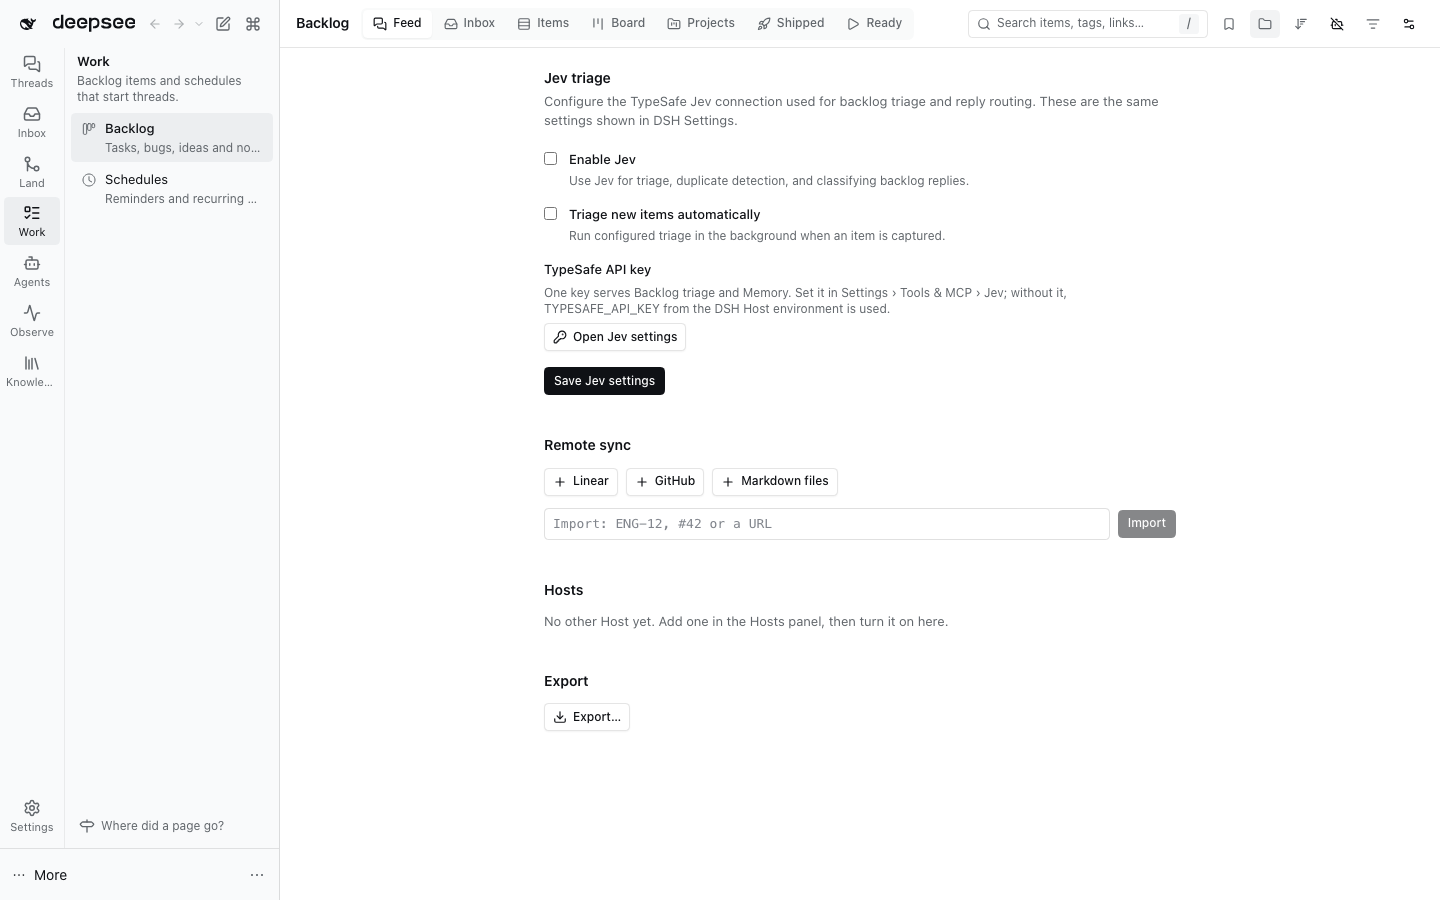
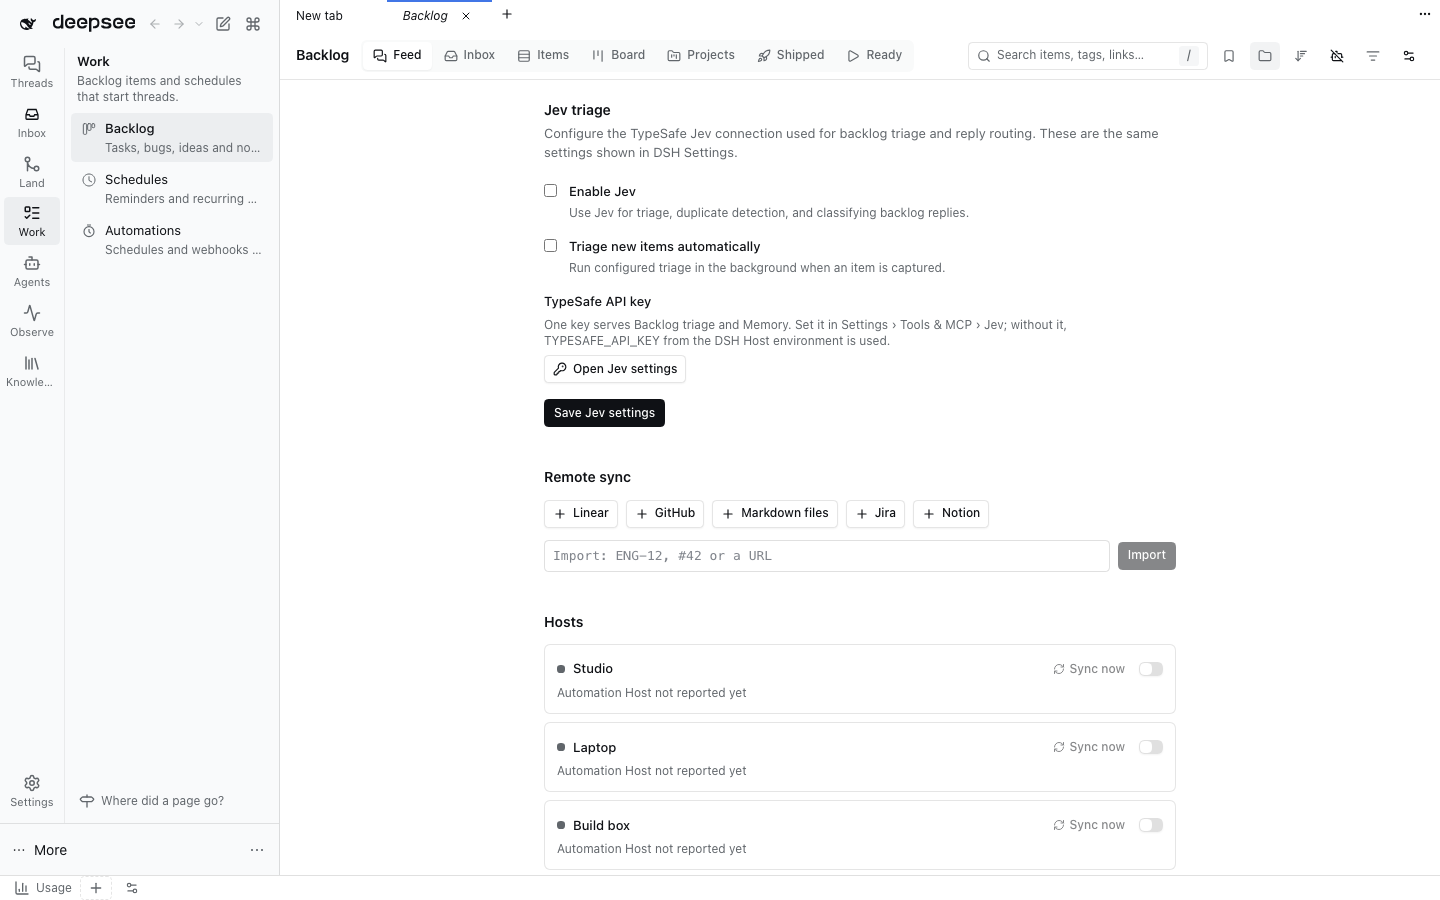
feat(backlog): show where each peer runs automation
A Hosts section that only shows this Host picks blind while other Hosts may run the same gate checks. Each peer row now names the automation Host it reported, and the section names every Host that disagrees, with the recovery of setting the same Host everywhere. Its feature seeds two peer runtimes so the captured screen shows peers.

diff --git a/plugins/@dshfiles/backlog/src/peer-settings.tsx b/plugins/@dshfiles/backlog/src/peer-settings.tsx
@@ -9,6 +9,7 @@ import { errorMessage, useMutation, useQuery, useQueryClient } from '@dshfiles/p
 
 import { backlogApi, type BacklogPeerStatusView } from './api.js'
 import { ItemGlyphs } from './item-glyphs.js'
+import { PeerAutomation, type PeerAutomationView } from './peer-automation.js'
 
 const PEER_STATUS_KEY = ['dshfiles-backlog', 'peer-status'] as const
 const THIS_HOST = ''
@@ -25,6 +26,18 @@ const pulledAgo = (at: number | null): string => {
 
 type PeerView = BacklogPeerStatusView['peers'][number]
 
+/** Where one peer runs automation, in this section's words: on itself, on this Host, or on a Host it names. */
+const automationSentence = (entry: { readonly peerName: string; readonly peerHostId: string | null; readonly automation: PeerAutomationView }): string =>
+  entry.automation.hostId === entry.peerHostId ? `${entry.peerName} runs automation itself` : `${entry.peerName} runs automation on ${entry.automation.label}`
+
+/** What the section says when Hosts picked different automation Hosts: two of them would run the same gate checks. */
+const automationDisagreement = (status: BacklogPeerStatusView): string | null => {
+  const disagreements = PeerAutomation.disagreements(status)
+  if (disagreements.length === 0) return null
+  const where = disagreements.map(automationSentence).join('; ')
+  return `Hosts disagree on where automation runs: ${where}. Pick the same Host here and in each Host's Backlog settings › Hosts, or gate checks and main polling run twice.`
+}
+
 /** What the section says instead of a Host list when there is nothing to list. */
 const emptyNote = (status: BacklogPeerStatusView): string | null => {
   if (!status.available)
@@ -33,7 +46,13 @@ const emptyNote = (status: BacklogPeerStatusView): string | null => {
   return null
 }
 
-const PeerRow = (props: { readonly peer: PeerView; readonly busy: boolean; readonly onToggle: (enabled: boolean) => void; readonly onSync: () => void }) => {
+const PeerRow = (props: {
+  readonly peer: PeerView
+  readonly automation: PeerAutomationView | null
+  readonly busy: boolean
+  readonly onToggle: (enabled: boolean) => void
+  readonly onSync: () => void
+}) => {
   const { peer } = props
   return (
     <li className="dshx:flex dshx:flex-col dshx:gap-1 dshx:rounded-lg dshx:border dshx:border-border dshx:p-3" aria-label={`Host ${peer.name}`}>
@@ -54,6 +73,9 @@ const PeerRow = (props: { readonly peer: PeerView; readonly busy: boolean; reado
           <Switch size="sm" checked={peer.enabled} aria-label={`Share the backlog with ${peer.name}`} onCheckedChange={props.onToggle} />
         </span>
       </div>
+      <p className="dshx:text-xs dshx:text-muted-foreground">
+        {props.automation === null ? 'Automation Host not reported yet' : `Automation on ${props.automation.label}`}
+      </p>
       {peer.error === null ? null : (
         <p role="alert" className="dshx:text-xs dshx:text-destructive">
           {peer.error.message}
@@ -72,6 +94,7 @@ export const BacklogHostsSettings = (): JSX.Element => {
   const sync = useMutation({ mutationFn: (runtimeId?: string) => api.peerSync(runtimeId === undefined ? {} : { runtimeId }), onSuccess: store })
   const configure = useMutation({ mutationFn: (input: Parameters<typeof api.configurePeers>[0]) => api.configurePeers(input), onSuccess: store })
   const data = status.data
+  const disagreement = data === undefined ? null : automationDisagreement(data)
   const enabledCount = data?.peers.filter(peer => peer.enabled).length ?? 0
   const automationOptions: ComboboxOption[] = [
     { value: THIS_HOST, label: 'This Host' },
@@ -108,6 +131,7 @@ export const BacklogHostsSettings = (): JSX.Element => {
               <PeerRow
                 key={peer.runtimeId}
                 peer={peer}
+                automation={PeerAutomation.of(data, peer)}
                 busy={sync.isPending && (sync.variables === undefined || sync.variables === peer.runtimeId)}
                 onToggle={enabled => configure.mutate({ peers: [{ runtimeId: peer.runtimeId, enabled }] })}
                 onSync={() => sync.mutate(peer.runtimeId)}
@@ -128,6 +152,11 @@ export const BacklogHostsSettings = (): JSX.Element => {
                 />
               </div>
               {data.automationNote === null ? null : <p className="dshx:text-xs dshx:text-muted-foreground">{data.automationNote}</p>}
+              {disagreement === null ? null : (
+                <p role="status" className="dshx:text-xs dshx:text-warning">
+                  {disagreement}
+                </p>
+              )}
             </div>
           ) : null}
         </div>

diff --git a/tooling/dshx/e2e/support/plugin-journeys/backlog-history.steps.ts b/tooling/dshx/e2e/support/plugin-journeys/backlog-history.steps.ts
@@ -1,9 +1,12 @@
 import { mkdtempSync, readFileSync } from 'node:fs'
+import { mkdir, writeFile } from 'node:fs/promises'
 import { tmpdir } from 'node:os'
 import { join } from 'node:path'
 import { expect, type Page } from '@playwright/test'
 import { Then, When } from '../bdd.js'
-import { finishJourneyAssertions, recordAssertion } from '../steps.js'
+import { openGlobalPanel } from '../plugin-view-names.js'
+import { finishJourneyAssertions, profileFor, recordAssertion } from '../steps.js'
+import { StartupDialogs } from '../../../packages/dshx/src/project/startup-dialogs.js'
 import { createScratchDirectory, sendMessage, startThreadWithModel } from '../threads.js'
 import { backlogRef } from './backlog-refs.js'
 
@@ -78,10 +81,55 @@ Then('the export file holds the item {string}', async ({ page }: { page: Page },
   await finishJourneyAssertions(page)
 })
 
-Then('the Hosts section says no other Host shares the backlog yet', async ({ page }: { page: Page }) => {
-  await recordAssertion(page, 'backlog-hosts-empty', async () => {
-    const hosts = page.getByRole('region', { name: 'Hosts', exact: true }).filter({ hasText: 'No other Host yet' })
-    await expect(hosts).toContainText('No other Host yet. Add one in the Hosts panel, then turn it on here.')
+/** Two multi-host runtimes this Host cannot reach, as a Hosts panel adds them: enough for the backlog to list them. */
+When('two multi-host Hosts are seeded', async ({ page }: { page: Page }) => {
+  const createdAt = '2026-11-11T00:00:00.000Z'
+  const launchUrl = 'http://127.0.0.1:1/?token=dshx-e2e-backlog-peer'
+  const host = (id: string, name: string, position: number) => ({
+    schemaVersion: 2,
+    id,
+    name,
+    connector: { kind: 'local' },
+    hidden: false,
+    position,
+    createdAt,
+  })
+  const runtime = (id: string, hostId: string, name: string, originPort: number) => ({
+    schemaVersion: 2,
+    id,
+    hostId,
+    name,
+    locator: { kind: 'local', launchUrl },
+    identity: null,
+    originPort,
+    createdAt,
+  })
+  const directory = {
+    schemaVersion: 2,
+    hosts: [host('studio', 'Studio', 0), host('build-box', 'Build box', 1)],
+    runtimes: [
+      runtime('10000000-0000-4000-8000-00000000bacc', 'studio', 'Studio', 43_011),
+      runtime('10000000-0000-4000-8000-00000000bacd', 'build-box', 'Build box', 43_012),
+    ],
+    retiredPorts: [],
+  }
+  const dataDirectory = join(profileFor(page).homeRoot, 'plugins', 'multi-host')
+  await mkdir(dataDirectory, { recursive: true, mode: 0o700 })
+  await writeFile(join(dataDirectory, 'directory.json'), `${JSON.stringify(directory, null, 2)}\n`, { mode: 0o600 })
+  await page.reload()
+  await StartupDialogs.registerProviderSetupDismissal(page)
+  await openGlobalPanel(page, 'Backlog')
+  await page.getByRole('button', { name: 'Backlog settings', exact: true }).click()
+})
+
+Then('the Hosts section lists both Hosts and where each runs automation', async ({ page }: { page: Page }) => {
+  await recordAssertion(page, 'backlog-hosts-peers', async () => {
+    const hosts = page.getByRole('region', { name: 'Hosts', exact: true })
+    const buildBox = hosts.getByRole('listitem', { name: 'Host Build box' })
+    await expect(buildBox).toBeVisible()
+    await expect(buildBox).toContainText('Automation Host not reported yet')
+    await expect(hosts.getByRole('listitem', { name: 'Host Studio' })).toBeVisible()
+    await expect(hosts).not.toContainText('No other Host yet')
   })
   await finishJourneyAssertions(page)
 })

diff --git a/plugins/@dshfiles/backlog/src/peer-automation.test.ts b/plugins/@dshfiles/backlog/src/peer-automation.test.ts
@@ -1,0 +1,66 @@
+import { describe, expect, it } from 'vitest'
+import type { BacklogPeerStatusView } from './api.js'
+import { PeerAutomation } from './peer-automation.js'
+
+const peer = (input: Partial<BacklogPeerStatusView['peers'][number]>): BacklogPeerStatusView['peers'][number] => ({
+  runtimeId: '10000000-0000-4000-8000-000000000002',
+  name: 'Build box',
+  connected: true,
+  enabled: true,
+  remoteHostId: 'build-box',
+  cursor: 0,
+  lag: 0,
+  pulled: 0,
+  lastPullAt: null,
+  lastSuccessAt: null,
+  automationHostId: null,
+  error: null,
+  ...input,
+})
+
+const status = (input: Partial<BacklogPeerStatusView>): BacklogPeerStatusView => ({
+  available: true,
+  hostId: 'studio',
+  intervalSeconds: 60,
+  automationHostId: null,
+  automationHere: true,
+  automationNote: null,
+  peers: [],
+  ...input,
+})
+
+describe('peer automation Host', () => {
+  it('names this Host, a known peer and an id it cannot place, and treats an empty choice as this Host', () => {
+    const reported = status({ peers: [peer({ name: 'Build box', remoteHostId: 'build-box' }), peer({ remoteHostId: 'laptop', name: 'Laptop' })] })
+    expect(PeerAutomation.label(reported, 'studio')).toBe('This Host')
+    expect(PeerAutomation.label(reported, 'build-box')).toBe('Build box')
+    expect(PeerAutomation.label(reported, '5f3c2a10-unknown')).toBe('Host 5f3c2a10')
+    expect(PeerAutomation.hostIdOf(reported)).toBe('studio')
+    expect(PeerAutomation.hostIdOf({ ...reported, automationHostId: 'build-box' })).toBe('build-box')
+  })
+
+  it('shows a peer choice only once that peer reported one', () => {
+    const unknown = status({ peers: [peer({ automationHostId: null })] })
+    expect(PeerAutomation.of(unknown, unknown.peers[0]!)).toBeNull()
+    expect(PeerAutomation.of(status({ peers: [peer({ automationHostId: 'studio' })] }), peer({ automationHostId: 'studio' }))).toEqual({
+      hostId: 'studio',
+      label: 'This Host',
+    })
+  })
+
+  it('lists every peer that runs automation elsewhere, as it picks one on itself', () => {
+    const here = status({
+      peers: [
+        peer({ name: 'Build box', remoteHostId: 'build-box', automationHostId: 'studio' }),
+        peer({ name: 'Laptop', remoteHostId: 'laptop', automationHostId: 'laptop' }),
+      ],
+    })
+    expect(PeerAutomation.disagreements(here)).toEqual([{ peerName: 'Laptop', peerHostId: 'laptop', automation: { hostId: 'laptop', label: 'Laptop' } }])
+
+    const elsewhere = status({ automationHostId: 'build-box', peers: [peer({ name: 'Laptop', remoteHostId: 'laptop', automationHostId: 'studio' })] })
+    expect(PeerAutomation.disagreements(elsewhere)).toEqual([
+      { peerName: 'Laptop', peerHostId: 'laptop', automation: { hostId: 'studio', label: 'This Host' } },
+    ])
+    expect(PeerAutomation.disagreements({ ...elsewhere, peers: [peer({ automationHostId: 'build-box', remoteHostId: 'build-box' })] })).toEqual([])
+  })
+})

diff --git a/plugins/@dshfiles/backlog/src/peer-automation.ts b/plugins/@dshfiles/backlog/src/peer-automation.ts
@@ -1,0 +1,43 @@
+import type { BacklogPeerStatusView } from './api.js'
+
+type PeerView = BacklogPeerStatusView['peers'][number]
+
+/** Where one peer runs background automation, when that peer has reported it on a pull. */
+export interface PeerAutomationView {
+  readonly hostId: string
+  readonly label: string
+}
+
+/** A peer that picked another automation Host than this Host, for the row note. */
+export interface PeerAutomationDisagreement {
+  readonly peerName: string
+  readonly peerHostId: string | null
+  readonly automation: PeerAutomationView
+}
+
+/** The automation Host choices this Host knows, named as it can: this Host, a known peer, or only the reported id. */
+export class PeerAutomation {
+  /** The Host the backlog runs automation on, as chosen in its Hosts section: empty means this Host itself. */
+  static readonly hostIdOf = (status: BacklogPeerStatusView): string => status.automationHostId ?? status.hostId
+
+  static readonly label = (status: BacklogPeerStatusView, hostId: string): string => {
+    if (hostId === status.hostId) return 'This Host'
+    const named = status.peers.find(peer => peer.remoteHostId === hostId)
+    return named?.name ?? `Host ${hostId.slice(0, 8)}`
+  }
+
+  /** The choice a peer reported; null until it was pulled once, since the peer reports it with its op log. */
+  static readonly of = (status: BacklogPeerStatusView, peer: PeerView): PeerAutomationView | null => {
+    if (peer.automationHostId === null) return null
+    return { hostId: peer.automationHostId, label: PeerAutomation.label(status, peer.automationHostId) }
+  }
+
+  /** Peers whose automation Host differs from this Host's choice, so a row and a note can name each disagreement. */
+  static readonly disagreements = (status: BacklogPeerStatusView): readonly PeerAutomationDisagreement[] => {
+    const chosen = PeerAutomation.hostIdOf(status)
+    return status.peers.flatMap(peer => {
+      const automation = PeerAutomation.of(status, peer)
+      return automation === null || automation.hostId === chosen ? [] : [{ peerName: peer.name, peerHostId: peer.remoteHostId, automation }]
+    })
+  }
+}

diff --git a/plugins/@dshfiles/backlog/README.md b/plugins/@dshfiles/backlog/README.md
@@ -863,9 +863,10 @@ The calls go through `@dshfiles/multi-host`'s `runtimePeerRead`, which passes ex
 `backlog/peerOpsSince` and `backlog/peerFiles` (the backlog depends on its published contract, never the reverse); a
 failed read is retried once. Without multi-host the section says the backlog stays on this Host and nothing runs. Each
 pull is one `backlog peer pull` span with counts only (ops, lag, outcome). The section lists each runtime with its
-switch, last pull, ops still to pull, last error and **Sync now**, and the automation Host picker; the item work log
-names the other Host that wrote an event. Agents read `backlog_peer_status` and, when the user asked, call
-`backlog_peer_sync` and `backlog_peers_configure`.
+switch, last pull, ops still to pull, last error and **Sync now**, where that Host runs automation (once it has been
+pulled), and the automation Host picker; a Host that picked a different automation Host is named, with the recovery
+of setting the same Host on every Host. The item work log names the other Host that wrote an event. Agents read
+`backlog_peer_status` and, when the user asked, call `backlog_peer_sync` and `backlog_peers_configure`.
 
 ### Import from the JSON storage domains
 
